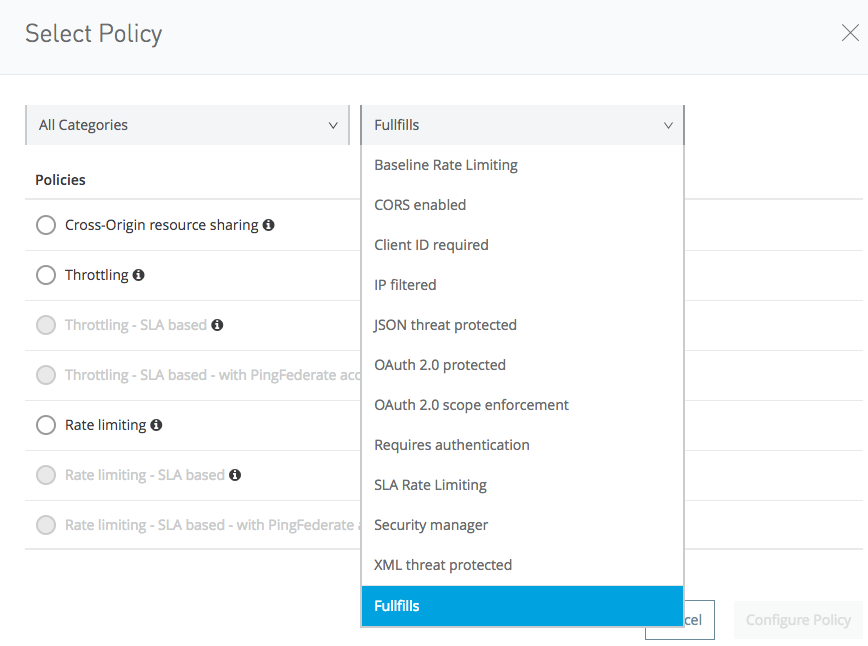
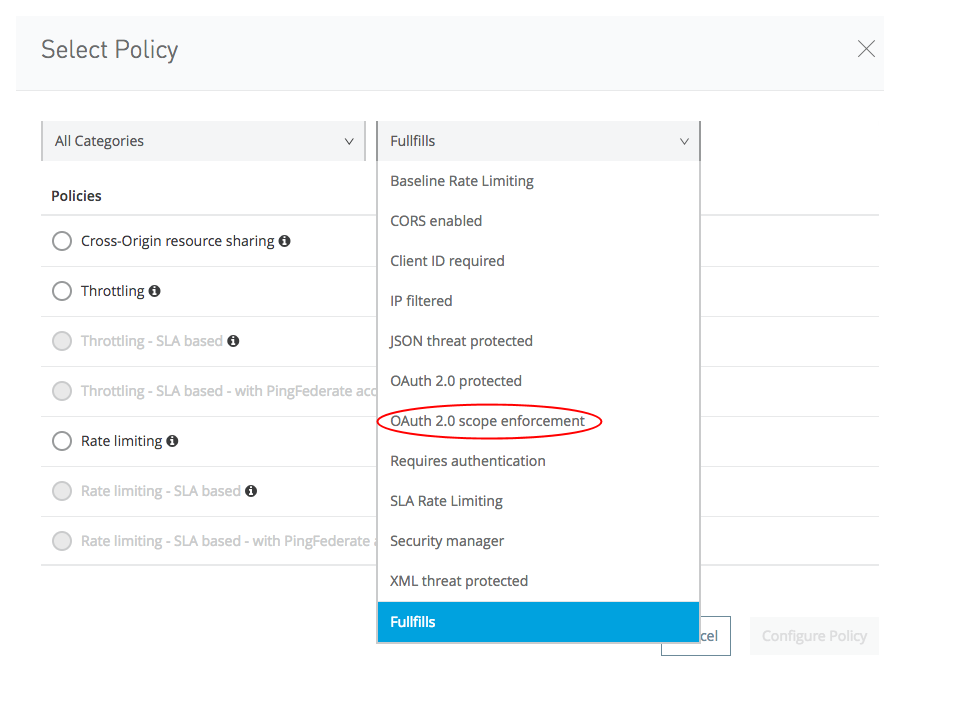
touch up documentation to match

diff --git a/README.md b/README.md
@@ -3,7 +3,8 @@ MuleSoft custom API gateway OAuth 2.0 scope enforcement policy
 
 ## Introduction
 This Mulesoft API Gateway [custom policy](https://docs.mulesoft.com/api-manager/applying-custom-policies)
-implements resource/method `securedBy` RAML scopes. It is meant to be added after one of the OAuth 2.0
+implements resource/method `securedBy` RAML scopes and optional "Enterprise" scope enforcement.
+It is meant to be added after one of the OAuth 2.0
 Access Token enforcement policies has already validated the Access Token and put the token information into
 the `_agwTokenContext` flowVar.
 
@@ -22,22 +23,43 @@ can narrow down the search by selecting Fulfills `OAuth 2.0 scope enforcement`.
 
 Note that this policy requires an _upstream_ `OAuth 2.0 protected` policy to be installed first.
 
+### Configuring Enterprise Scope Validation
+Provide the triggering scope and group attribute name. The triggering scope causes enterprise validation for
+the given attribute that is in the OAuth 2.0 validation result's access\_token (\_agwTokenContext).
+For example: `auth-columbia`:`group` is used when the `auth-columbia` scope is present and the
+access_token contains a `group` attribute that is a list of "OAuth groups" the user is a member of.
+
+The first matching triggering scope is used and any other matching triggers will be ignored.
+
+This group list will be intersected with the OAuth 2.0 granted scope list to produce the _effective_ scope list
+which will then be tested for scope enforcement.
+
+### Configuring Method:Resource Scope Enforcement
 Configure the scope enforcement policy by adding method:resource keys and values that are the 
-scopes you want to enforce
-for the given method:resource. In this example, we add `get:/things` with `read` as the required scope and
-`post:/things` with `create` scope. If you have a common (set of) scope(s) that you want enforced you can
-repeat them here for each table entry, or list them in the prior `OAuth 2.0 protected` policy.
+scopes you want to enforce for the given method:resource.
+In this example, we add `get:/things` with `read` as the required scope and
+`post:/things` with `create` scope.
 The method:resource name is similar to what the MuleSoft APIkit router uses for flow names.
+
+If you have a common (set of) scope(s) that you want enforced you can
+repeat them here for each table entry, or list them in the prior `OAuth 2.0 protected` policy.
+
 
 ![alt-text](apply.png "screen shot of example of applying the custom OAuth 2.0 scope enforcement policy")
 
+### flowVars added
+As a convenience, this policy also sets the following flowVars for use by subsequent modules in the flow:
+
+  **scope**: (effective) list of granted scopes
+
+  **requiredScopes**: list of required scopes configured by this policy for this method & resource
 
 ## Why this custom policy is required
 
 The reason this custom policy is needed is that the MuleSoft standard policies currently only 
 implement _global_ checking for
 a static list of required scopes rather than allowing for different required scopes for
-each specific method and resource as show here:
+each specific method and resource as shown here:
 
 ![alt-text](global-scope-enforcement.png "screen shot of example of global scope enforcement policy")
 
@@ -79,7 +101,7 @@ The following are notes for developers of this Policy.
 The end game is to pass in a URL to the RAML description and then parse the RAML to find the securedBy
 and cache this into a map Later, but consider that the `securedBy` is a list
 of scopes that are _allowed_ and not necessarily _required_; there may be no way to identify which
-ones to use.
+ones to use; RAML is unclear about the semantics of OAuth 2.0 scopes.
 
 To start, just use a mustache-templated keyvalues map of `{"method:resource": "scopes"}`.
 See [oauth2-scope-enforcer.yaml](src/main/policy/oauth2-scope-enforcer.yaml) for an example
@@ -114,6 +136,10 @@ https://docs.mulesoft.com/api-manager/creating-a-policy-walkthrough
 
 However, it seems when testing a custom policy in Studio, other policies are no longer applied. This
 breaks things as we need the flowVars created by the upstream `OAuth 2.0 protected` policy.
+
+Since it's hard to debug Python Code in the MuleSoft Jython world, use [test.py](./test.py) as a simple test harness:
+Copy the configured Python code from the relevant XML file in `~/AnypointStudio/workspace/.mule/policies/` and
+append it to test.py.
 
 ### Inconsistency across Mule implementations of OAuth 2.0
 
